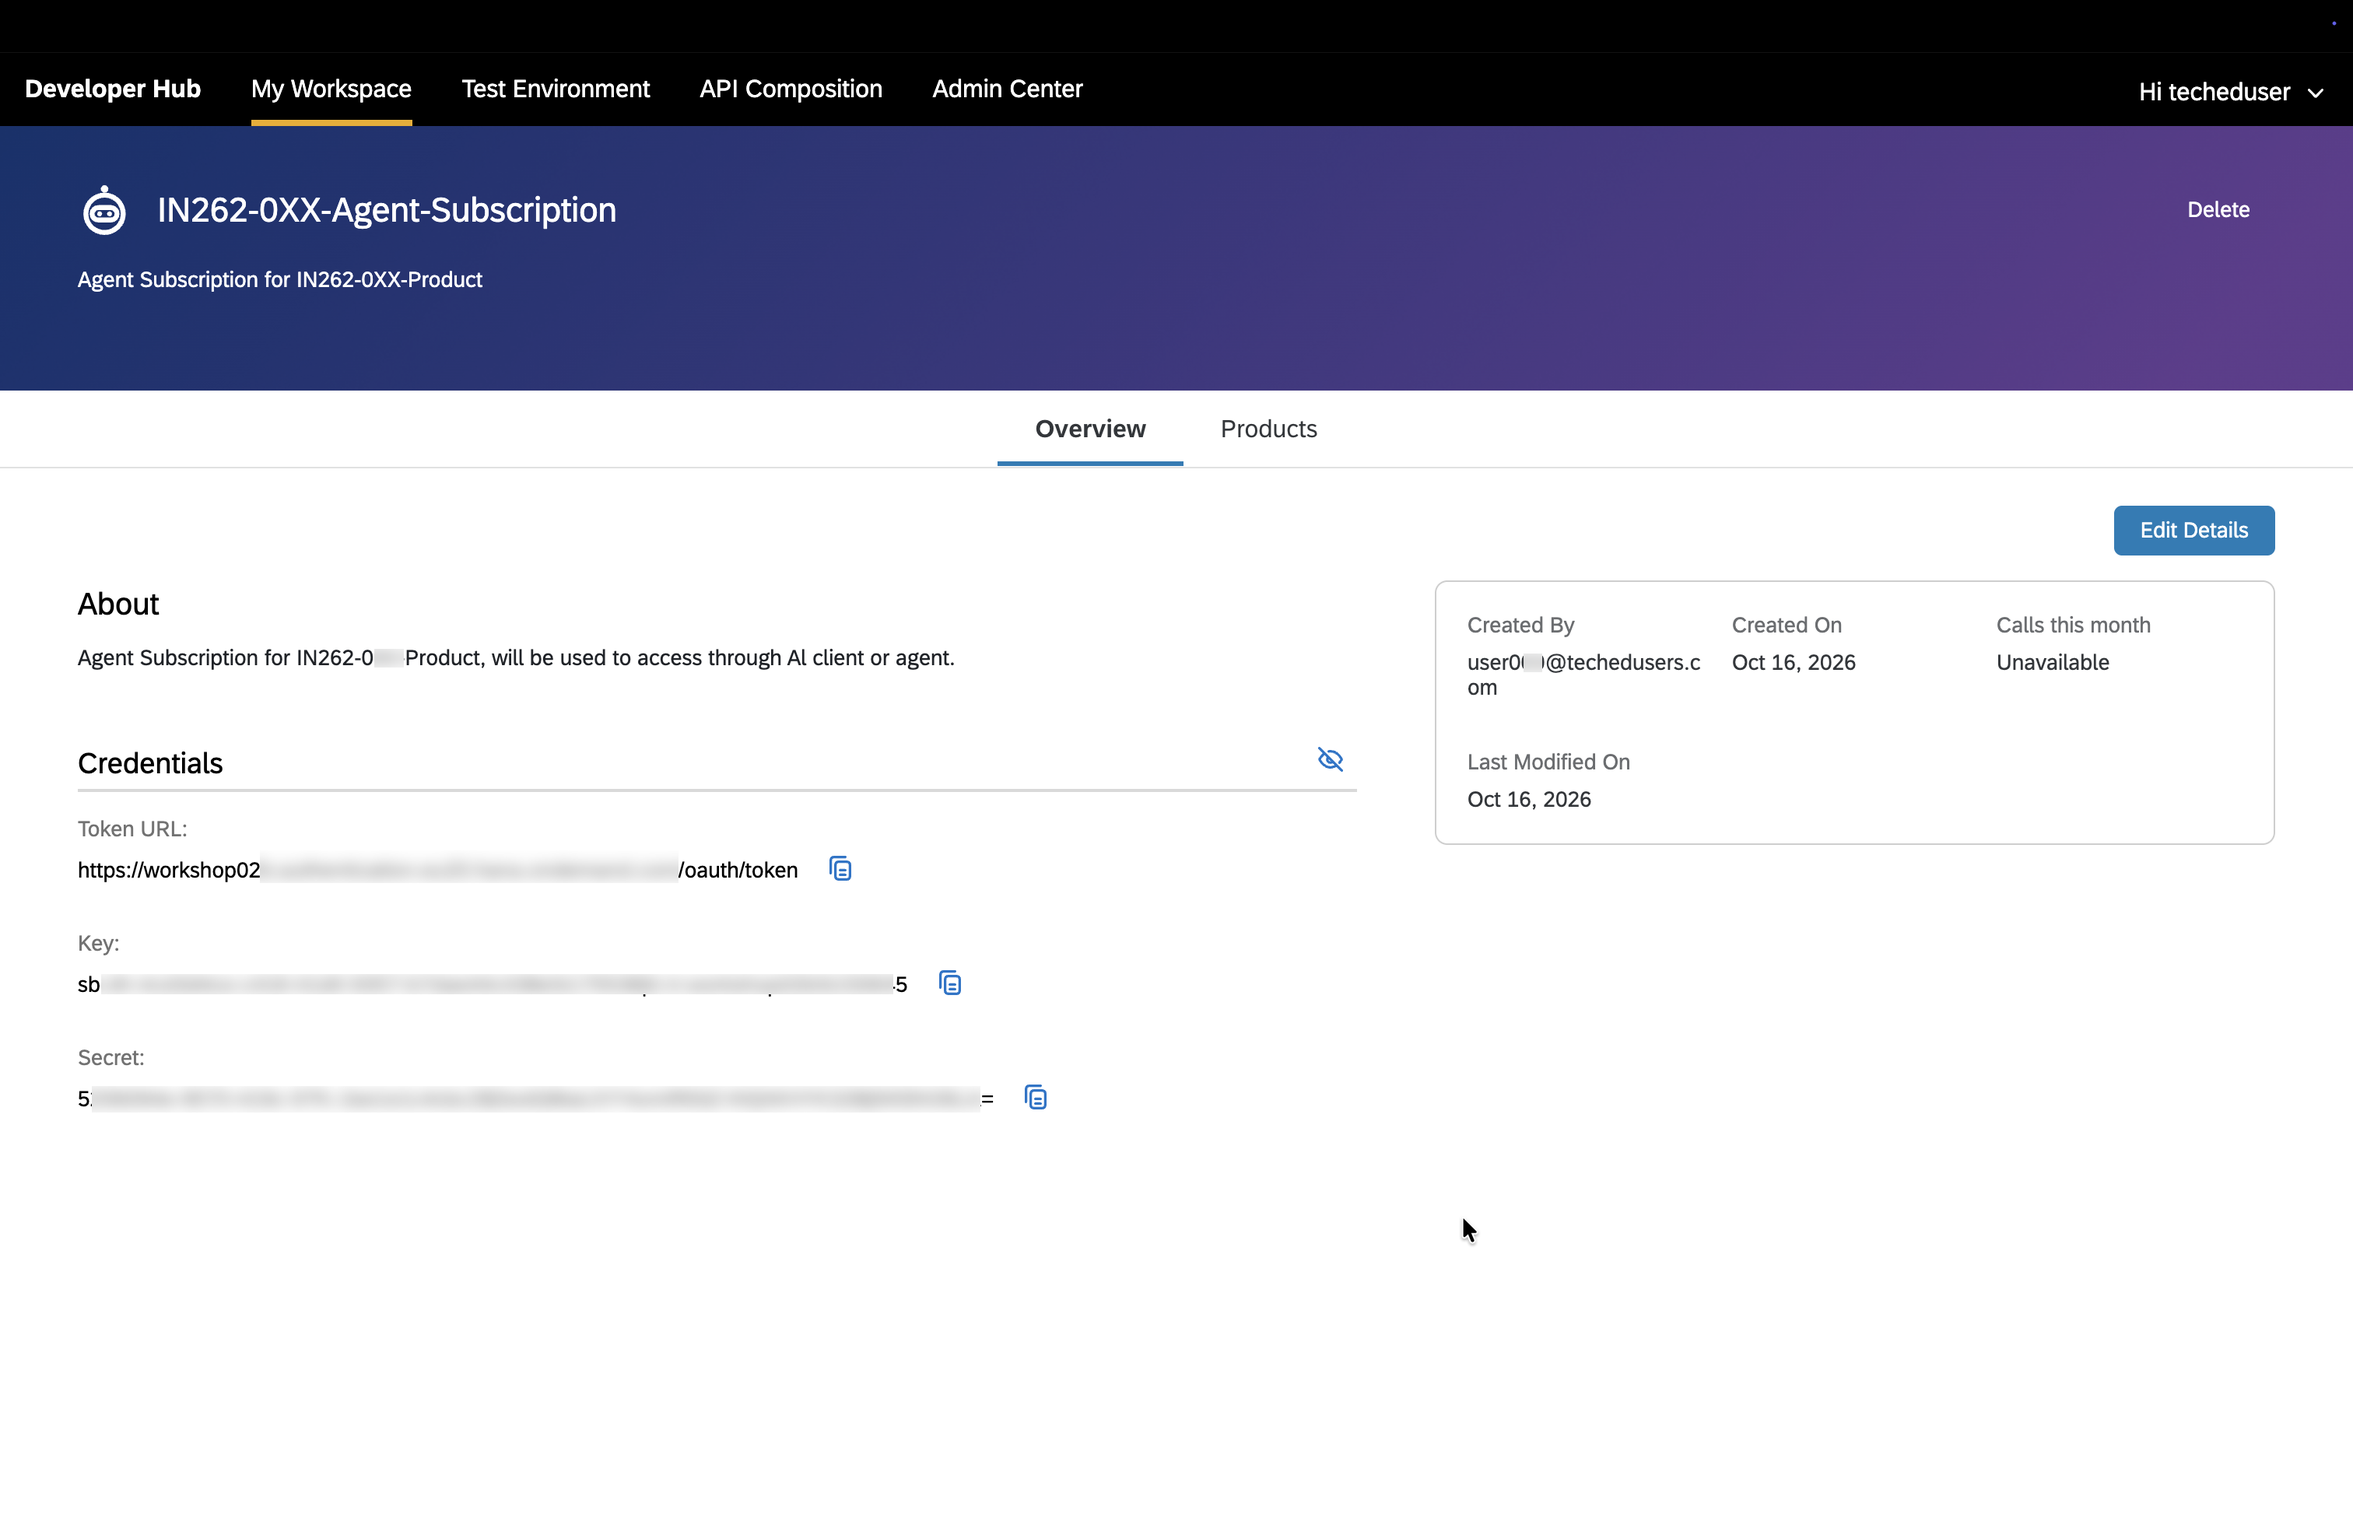
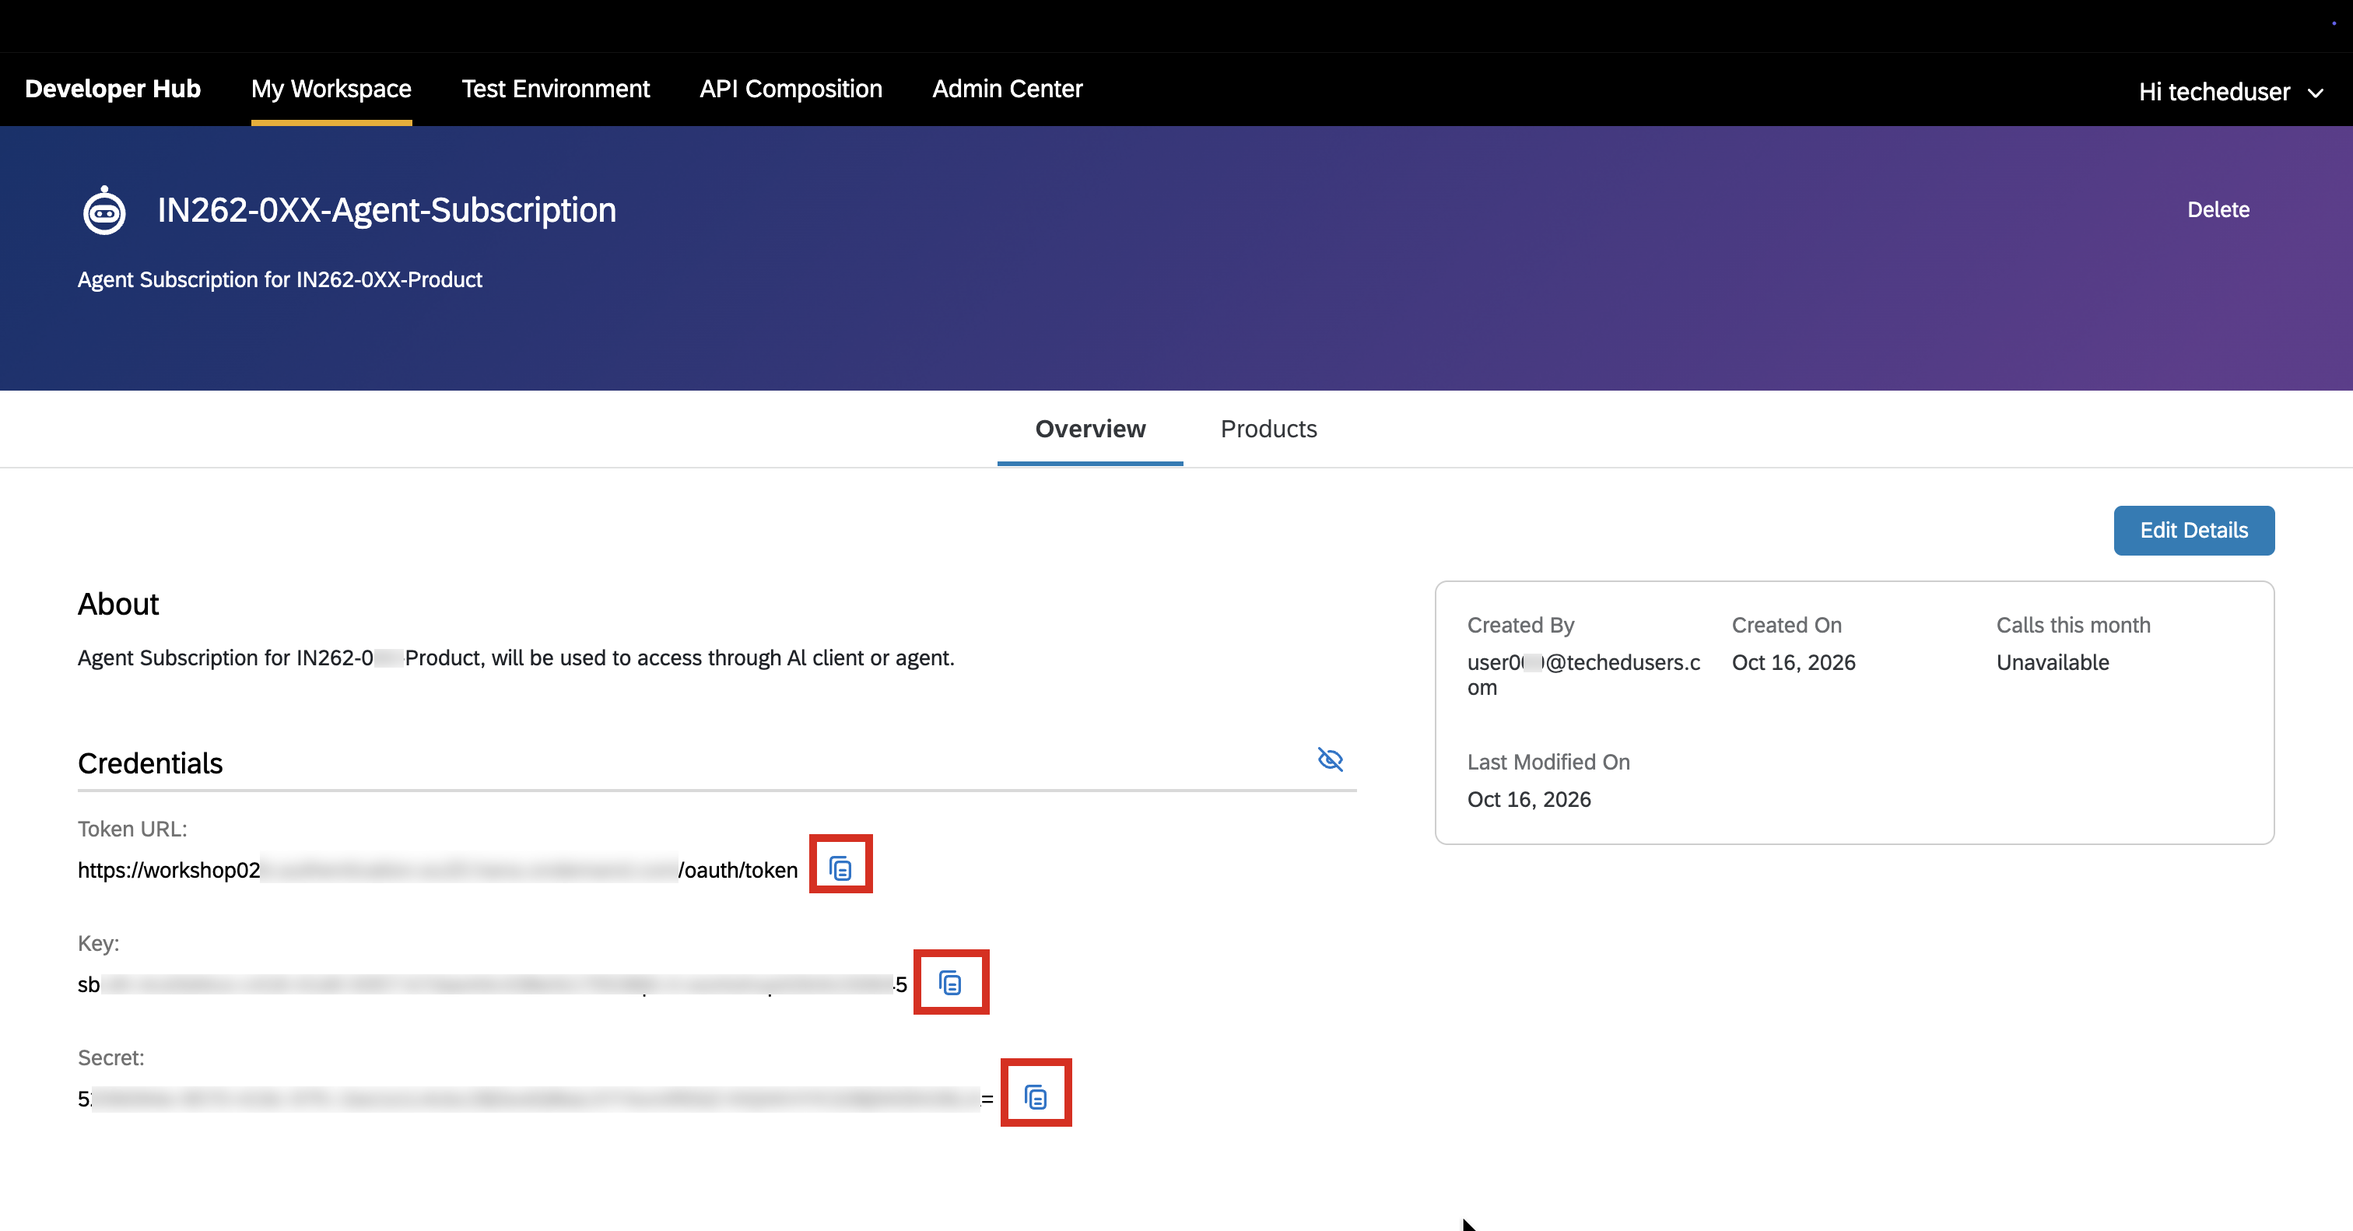
ex4: restructure README with Steps 1-9, add all new screenshots

diff --git a/exercises/ex4/README.md b/exercises/ex4/README.md
@@ -20,101 +20,163 @@ You have built and deployed the integration flows in Exercises 1–3. In this ex
 | Capability | What happens |
 |---|---|
 | **MCP Server** | Claude Code discovers your deployed MCP server as a tool and calls the S/4HANA product creation API on your behalf — no API client or manual payload construction required |
-| **Natural language → API call** | You describe the product in plain language; the agent maps it to the correct OData fields and handles authentication |
+| **Natural language used to call APIs** | You describe the product in plain language; the agent maps it to the correct OData fields and handles authentication |
 
 ---
 
 ## Prerequisites
 
-The following items are **pre-installed on your laptop** by the session IT team:
+The following items are **pre-installed on your workstations** by the IT team:
 
 - **Claude Code CLI** — installed and available via `claude` in the terminal
 - **Bruno** — REST client installed
 - **Visual Studio Code** — installed
 
-The following items are **provided by the session instructor** at the start:
-
-- Bruno collection: `TechEd26-IN262` (imported into Bruno) — [Download Bruno Collection](downloads/IN262-Bruno-Collection.zip)
-- MCP Server config template — [Download .mcp.json](downloads/.mcp.json)
 - Your **participant number** (printed on your session card) — `001` through `040`
 
 ---
 
-## Step 1 — Copy Your MCP Server Credentials from Developer Hub
+## Step 1 — Setup: Import Bruno Collection and Open .mcp.json
+
+### Part A — Import Bruno Collection into Bruno
+
+1. Right click open the file in new tab or window [Bruno Collection download link](downloads/IN262-Bruno-Collection.zip) 
+   - click **Download raw file** to save the ZIP
+
+   ![GitHub — IN262-Bruno-Collection.zip file page, Download raw file button highlighted](images/ex04-0-1.png)
+
+2. Open **Bruno** → click the `+` icon next to **Collections** in the left panel → select **Import collection**
+
+   ![Bruno — Collections panel, + icon clicked, Import collection option highlighted](images/ex04-0-2.png)
+
+3. The Import Collection dialog opens — click **choose file(s)**
+
+   ![Bruno — Import Collection dialog, choose file(s) link highlighted](images/ex04-0-3.png)
+
+4. Navigate to your **Downloads** folder → select **IN262-Bruno-Collection.zip** → click **Open**
+
+   ![File picker — Downloads folder, IN262-Bruno-Collection.zip selected, Open button highlighted](images/ex04-0-4.png)
+
+5. Confirm the collection name `IN262-Bruno-Collection` → click **Import**
+
+   ![Bruno — Import dialog, name IN262-Bruno-Collection, Import button highlighted](images/ex04-0-5.png)
+
+6. The collection **IN262-Bruno-Collection** now appears in Bruno — it is ready for use in Step 2
+   - Expand and verify the POST request call entry is available
+
+   ![Bruno — IN262-Bruno-Collection expanded, Generate Token request highlighted](images/ex04-0-6.png)
+
+### Part B — Open .mcp.json in VS Code
+
+7. Right click and Open the [.mcp.json download link](downloads/.mcp.json) 
+   - on the GitHub page click **Download raw file** to save the file to your **Downloads** folder
+   - <mark> verify file name is `.mcp.json` **(file name with leading dot)** </mark>
+      - if required rename the file to `.mcp.json` with leading dot
+
+> [!CAUTION]
+> If browser save the file as **`mcp.json`** **(without the leading dot)**. 
+> 
+> You must rename it to **`.mcp.json`** after downloading:
+> - Open your **Downloads** folder → right-click `mcp.json` → **Rename** → change to `.mcp.json` → press **Enter**
+> - System may warn that changing the extension could make the file unusable — click **Yes**
+
+   ![GitHub — .mcp.json file page, Download raw file button highlighted](images/ex04-0-8.png)
+
+
+8. Open **Windows Explorer** 
+   - Navigate to your download directory 
+   - Copy the renamed file from your download folder to `C:\Users\<participant-user>`.
+
+> [!TIP]
+> If the file already exists you can overwrite it.
+
+   ![Windows Explorer — home directory, .mcp.json file highlighted](images/ex04-0-9.png)
+
+
+
+9. Right-click **.mcp.json** 
+   - select **Open with → Visual Studio Code**
+   
+   ![Windows Explorer — right-click context menu, Open with Visual Studio Code highlighted](images/ex04-0-10.png)
+   
+10. Keep VS Code open, we will fill the values in Step 4
+   
+   ![VS Code window with default values](images/ex04-0-11.png)
+
+
+---
+
+## Step 2 — Copy Your MCP Server Credentials from Developer Hub
 
 Your MCP server credentials were created in Exercise 3. You will now retrieve them.
 
 1. Navigate to **Developer Hub → My Workspace → Agents** tab and open your agent subscription **IN262-0XX-Agent-Subscription**
-
-   ![Developer Hub — Agent Subscription page, credentials hidden with eye icon](images/ex04-1.png)
+   ![Developer Hub — Agent Subscription page, credentials hidden with eye icon](images/ex04-1-0.png)
+  
 
 2. Click the **eye icon** next to the credentials to reveal the **Token URL**, **Key**, and **Secret**
 
+   ![Developer Hub — Agent Subscription page, credentials hidden with eye icon](images/ex04-1.png)
+
+> [!IMPORTANT]
+> **Keep this browser tab open** — you will copy the Token URL, Key, and Secret directly from here into Bruno in the next step. Do not close or navigate away.
+
    ![Developer Hub — Token URL, Key, and Secret revealed (blurred)](images/ex04-1-1.png)
 
-> [!NOTE]
-> Copy the **Token URL**, **Key**, and **Secret** — you will need them in the next step to obtain an access token.
+---
+
+## Step 3 — Get Your MCP Access Token via Bruno
+
+1. Open **Bruno** → expand **IN262-Bruno-Collection** in the left panel
+
+   ![Bruno — IN262-Bruno-Collection expanded, Generate Token request highlighted](images/ex04-0-6.png)
+
+2. Click **IN262-0XX - Generate Token for Product Creation MCP Server** — the POST request opens
+
+   ![Bruno — Generate Token request open](images/ex04-2-0.png)
+
+
+3. Switch to the **Developer Hub browser tab** and copy each value directly into Bruno:
+   - **Token URL** → paste into the POST URL field at the top
+   - **Key** → paste into the `client_id` value field
+   - **Secret** → paste into the `client_secret` value field
+
+   ![Bruno — POST request with Token URL, client_secret and client_id fields annotated](images/ex04-0-7.png)
+
+4. Click **Send** — the response returns a JSON body. Copy the `access_token` value **between the quotes**
+
+   ![Bruno — response body with access_token highlighted, annotation "Copy the Token between the quotes"](images/ex04-0-7-1.png)
 
 ---
 
-## Step 2 — Get Your MCP Access Token via Bruno
+## Step 4 — Configure the MCP Server in .mcp.json
 
-You will use the Bruno collection to exchange your credentials for a short-lived access token.
+1. Switch to **VS Code** — the `.mcp.json` file is already open from Step 1. 
 
-1. Open **Bruno** and select the **TechEd26-IN262** collection — open the **Get MCP Token** request
-
-   ![Bruno — Get MCP Token request open, Token URL, Key, Secret filled in](images/ex04-2.png)
-
-2. Confirm your credentials are set
-   - Click **Send**
-   - Copy the `access_token` value from the response — you will paste it into `.mcp.json` in the next step
-
-   ![Bruno — Send button highlighted, 200 response with access_token in body](images/ex04-2-1.png)
-
----
-
-## Step 3 — Configure the MCP Server in Claude Code
-
-1. Open **Windows Explorer**, navigate to your home directory (`C:\Users\TE-25`), and locate the `.mcp.json` file
-
-   ![Windows Explorer — home directory, .mcp.json file highlighted](images/ex04-2-2.png)
-
-2. Right-click `.mcp.json` and select **Open with → Visual Studio Code**
-
-   ![Windows Explorer — right-click context menu, Open with Visual Studio Code highlighted](images/ex04-2-3.png)
-
-3. The file opens in VS Code. 
-   - Paste entire JSON after changes or change the specific parts
-      - Replace `XX` at the end of URL with your parcipant number 
-      - Replace `[YOUR_TOKEN]` with the access token you copied
+Update the following:   
+   
+   - Replace `[GENERATE NEW TOKEN and PASTE HERE]` with the `access_token` 
+      - you copied in Step 3 or copy it from bruno
+   - Replace `replace this with your MCP URL` 
+      - with your MCP server URL (copied in Notepad)
+      - you can also navigate to MCP server in developer hub to get MCP URL
    - Save the file (`Ctrl+S`)
 
-> [!NOTE]
-> The URL above is for the **dry run (workshop02b)**. Replace `XX` with your participant number.
-```json
-{
-  "mcpServers": {
-    "IN262-ProductCreation": {
-      "type": "http",
-      "url": "https://workshop02b-1727b6a7b06944a096591f5568a14821.a.integration.cloud.sap/mcp_in262-0XX",
-     
-      "headers": {
-        "Authorization": "Bearer [YOUR_TOKEN]"
-      }
-    }
-  }
-}
-```
+> [!TIP]
+> - Do not change the json file format
+> 
+> - There is a space between `Bearer` and new copied token from Bruno
 
    ![VS Code — .mcp.json open with MCP server URL and Bearer token filled in](images/ex04-2-4.png)
 
-
-
 ---
 
-## Step 4 — Start Claude Code CLI
+## Step 5 — Start Claude Code CLI
 
 1. Press the **Windows key**, type `command`, and click **Command Prompt**
+
+>[!IMPORTANT]
+> You should open Claude in the **same folder** where you saved **.mcp.json file**
 
    ![Windows Search — "command" typed, Command Prompt result highlighted](images/ex04-2-5.png)
 
@@ -128,7 +190,7 @@ You will use the Bruno collection to exchange your credentials for a short-lived
 
 ---
 
-## Step 5 — Verify Your MCP Server is Connected
+## Step 6 — Verify Your MCP Server is Connected
 
 1. Type `/mcp` and press **Enter** — Claude Code lists all connected MCP servers
 
@@ -137,15 +199,25 @@ You will use the Bruno collection to exchange your credentials for a short-lived
 2. Confirm **IN262-ProductCreation** shows status **connected** and lists **12 tools**
 
 > [!NOTE]
-> If the server shows **disconnected**, verify your `.mcp.json` has the correct URL and a valid (non-expired) token, then restart Claude Code.
+> If the server shows **disconnected** 
+> - verify your `.mcp.json` has the correct URL
+> - regenerate a valid token, paste it in `.mcp.json` again
+> - restart Claude Code, type exit -> press eneter
+>     - now you can again type claude to start new session
+
+> [!TIP]
+> Press Escape key to go back to prompt in Claude
 
 ---
 
-## Step 6 — Create a Product via the AI Agent
+## Step 7 — Create a Product via the AI Agent
 
 You will now act as the **Data Steward** — using natural language to instruct the AI agent to create a product in S/4HANA.
 
-1. Type the following prompt, replacing `0XX` with your 3-digit participant number and `NN` with `01` for your first product, `02` for your second attempt, and so on:
+1. Prepare the prompt by <mark>**adjusting it as given below (see example)**</mark>
+   - copy and paste this prompt in notepad / text editor 
+   - replace `0XX` with your 3-digit participant number
+   - `NN` with `01` for your first product, `02` for your second attempt, and so on
 
 > [!NOTE]
 > **Example for participant 007, first attempt:**
@@ -185,26 +257,33 @@ Create a new product in S/4HANA with the following details:
    ![Claude Code CLI — calling IN262-ProductCreation tool, product details shown](images/ex04-3-3.png)
 
 5. Claude Code confirms the product was created successfully — a summary table with all product fields is shown
+
 > [!NOTE]
 > The product creation triggers an AEM event in the background. The integration flow picks this up, calculates your personalised discount, and creates a campaign task in SAP Build Process Automation. This may take some seconds.
 
    ![Claude Code CLI — product successfully created, summary table with Product ID, Description, Type, Unit, Group](images/ex04-3-4.png)
 
+6. **[Monitor]** Go back to Integration Suite system to monitor integration flows</mark>
 
+   ![ Message monitor to check product creation](images/ex04-3-5.png)
 
 ---
 
-## Step 7 — Approve the Campaign Offer in My Inbox
+## Step 8 — Approve the Campaign Offer in My Inbox
 
 You now switch roles — acting as the **End User / Customer** who receives the campaign offer.
 
 1. Open your browser and navigate to the SBPA MyInbox:
+   - Click on this link to open [My Inbox](https://url.sap/lf45f4)
 
-   [My Inbox](https://url.sap/lf45f4)
+>[!TIP]
+> Sign in with **teched identity provider** or ask the instructor
 
-2. Log in with your participant credentials (`in262-0NNN@education.cloud.sap`)
+   
+2. Log in with your participant credentials (`in262-0XX@education.cloud.sap`)
+   - Instructors will provide you the credentials
 
-3. Click the **inbox icon** in the top navigation bar
+3. Refresh the task list using refresh button
    - Locate the task **Place Order - Product Offer** for your product
    - Review the offer details, confirm the quantity, and click **Place Order**
 
@@ -214,10 +293,15 @@ You now switch roles — acting as the **End User / Customer** who receives the 
 
    ![SBPA — "Task processed successfully" confirmation toast](images/ex04-4-1.png)
 
+5. **[Monitor]** Go back to Integration Suite system to monitor integration flows</mark>
+
+   ![ Message monitor to check order creation](images/ex04-4-3.png)
+
 ---
 
-## Step 8 — Confirm the Sales Order
-Once the order is created in the backend a notification will be sent back to you for order confirmation
+## Step 9 — Confirm the Sales Order
+
+Once the order is created in the backend a notification will be sent back to you for order confirmation.
 
 1. Click the **inbox icon** again — you should now see a **"A Sales Order Created"** notification
 
@@ -231,12 +315,14 @@ Once the order is created in the backend a notification will be sent back to you
 
 You have completed the full end-to-end journey:
 
-1. Retrieved MCP server credentials from Developer Hub
-2. Used Bruno to exchange credentials for an OAuth access token
-3. Configured Claude Code CLI with your MCP server endpoint and token
-4. Used an AI agent to create a product in S/4HANA — no API client, no manual payload
-5. The integration platform picked up the event, calculated a personalised discount, and raised a campaign task
-6. You placed the order and received the Sales Order confirmation
+1. Imported the Bruno collection and opened the `.mcp.json` template in VS Code
+2. Retrieved MCP server credentials from Developer Hub
+3. Used Bruno to exchange credentials for an OAuth access token
+4. Configured `.mcp.json` with your MCP server URL and access token
+5. Started Claude Code CLI and verified the MCP server is connected
+6. Used an AI agent to create a product in S/4HANA — no API client, no manual payload
+7. The integration platform picked up the event, calculated a personalised discount, and raised a campaign task
+8. You placed the order and received the Sales Order confirmation
 
 ---
 
